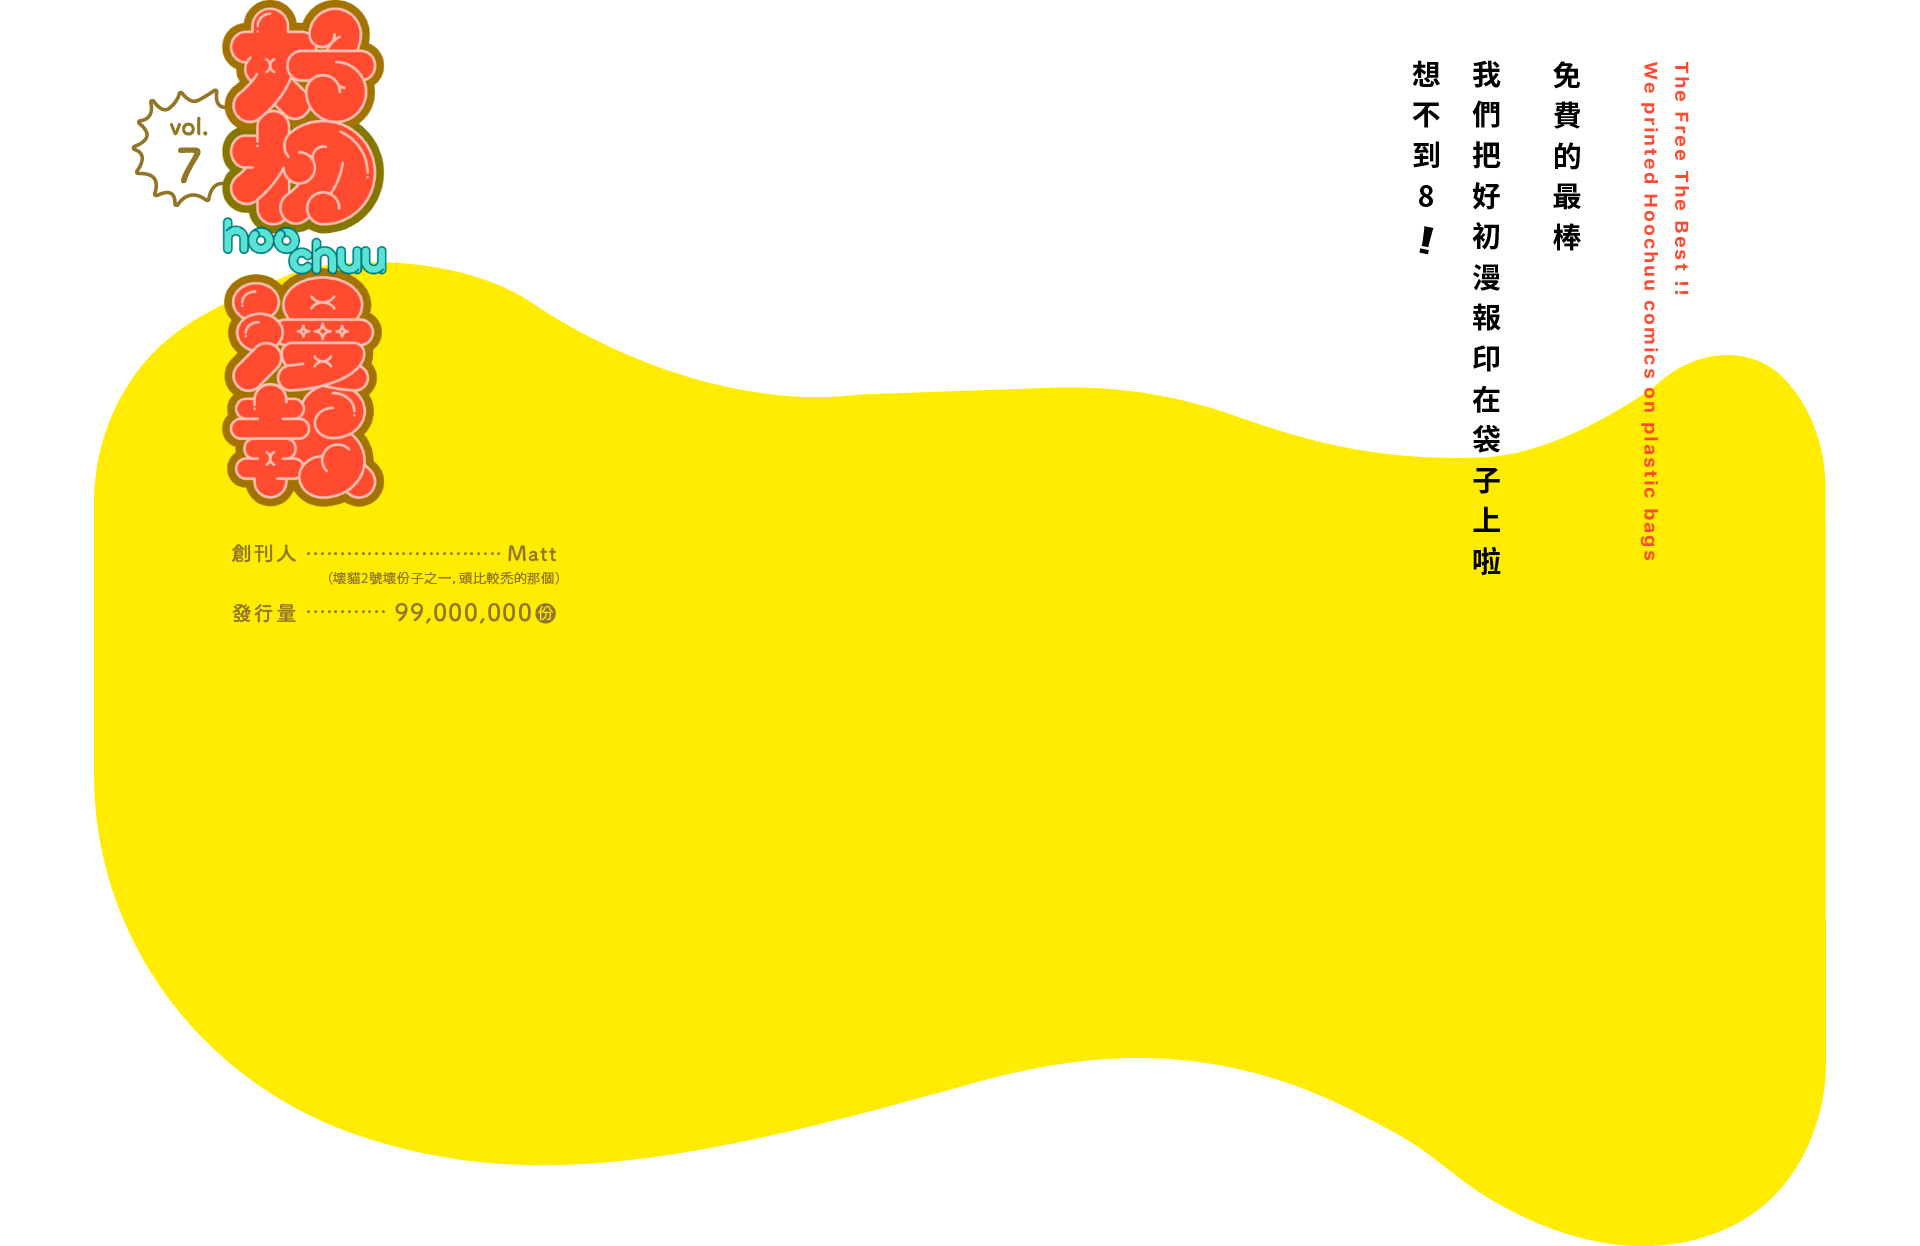
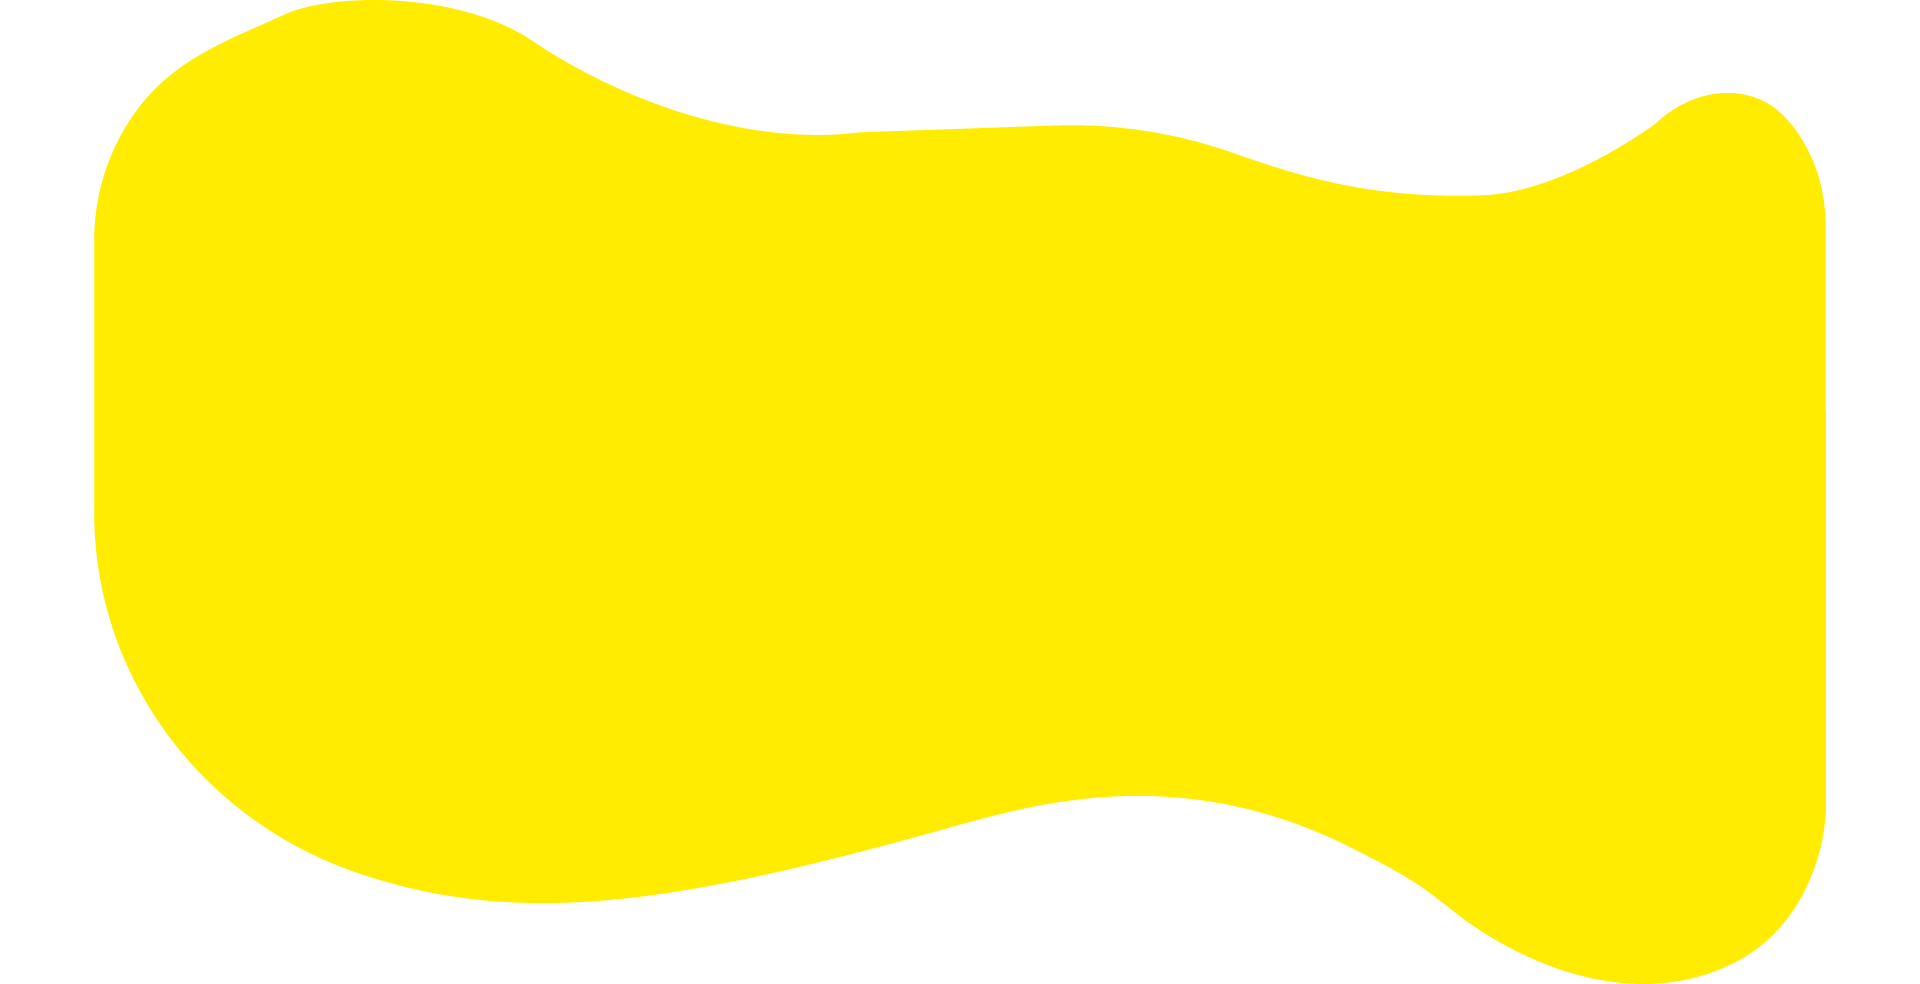
add landing scroll

diff --git a/index.html b/index.html
@@ -67,28 +67,11 @@
     </div>
     <section class="content">
         <div class="container">
-            <!-- <div class="logo">
-                <img src="img/logo.png" alt="">
-            </div> -->
-            <!-- <div class="founder">
-                <img src="img/founder.png" alt="">
-            </div> -->
             <div class="landing__text">
-                <!-- <p class="landing__text_en">
-                    <span>The free the best !!</span><br>
-                    <span>We printed HooChuu comics on plastics bags</span><br>
-                    <br>
-                    <br>
-                </p> -->
-                <!-- <p class="landing__text_tc">
-                    <span>免費最棒</span><br>
-                    <br>
-                    <span>我們把好初漫報印在塑膠袋上啦~</span><br>
-                    <span>想不到 8~</span><br>
-                </p> -->
+                <div class="landing__words">
+                    <img src="img/p1_words.png" alt="">
+                </div>
             </div>
-            <div id="trigger__apply"></div>
-            <div id="trigger__steps"></div>
             <div class="steps__text" id="steps__text">
                 <div class="steps__title digit">
                     <p>

diff --git a/style.css b/style.css
@@ -197,18 +197,11 @@ img {
     width: 100%;
 }
 
-.bg__cloud {
-    width: 100vw;
-}
-
 .logo {
     position: absolute;
     top: 10vw;
     left: 6vw;
     width: 16vw;
-}
-.logo img {
-    width: 100%;
 }
 .founder {
     position: absolute;
@@ -224,6 +217,7 @@ img {
     background-repeat: no-repeat;
     background-position: left 0 top 15vw;
     background-size: contain;
+    position: relative;
     padding: 0;
     width: 100vw;
     height: 180vw;
@@ -236,6 +230,13 @@ img {
 .landing__text_tc {
     font-size: 1.6rem;
     letter-spacing: 0.5rem;
+}
+.landing__words {
+    position: sticky;
+    top: 10vw;
+    left: 0;
+    width: 100vw;
+    height: 50vw;
 }
 /* steps */
 .steps__text {
@@ -664,7 +665,7 @@ img {
 .landing__text {
     background-image: url("img/p1.png");
     background-repeat: no-repeat;
-    background-position: left 0 top 5vw;
+    background-position: left 0 top 15vw;
     background-size: contain;
     padding: 0;
     width: 100vw;
@@ -679,6 +680,11 @@ img {
     font-size: 1.6rem;
     letter-spacing: 0.5rem;
 }
+.landing__words {
+    top: 10vw;
+    height: 50vw;
+}
+
 /* steps */
 .steps__text {
     width: 100vw;
